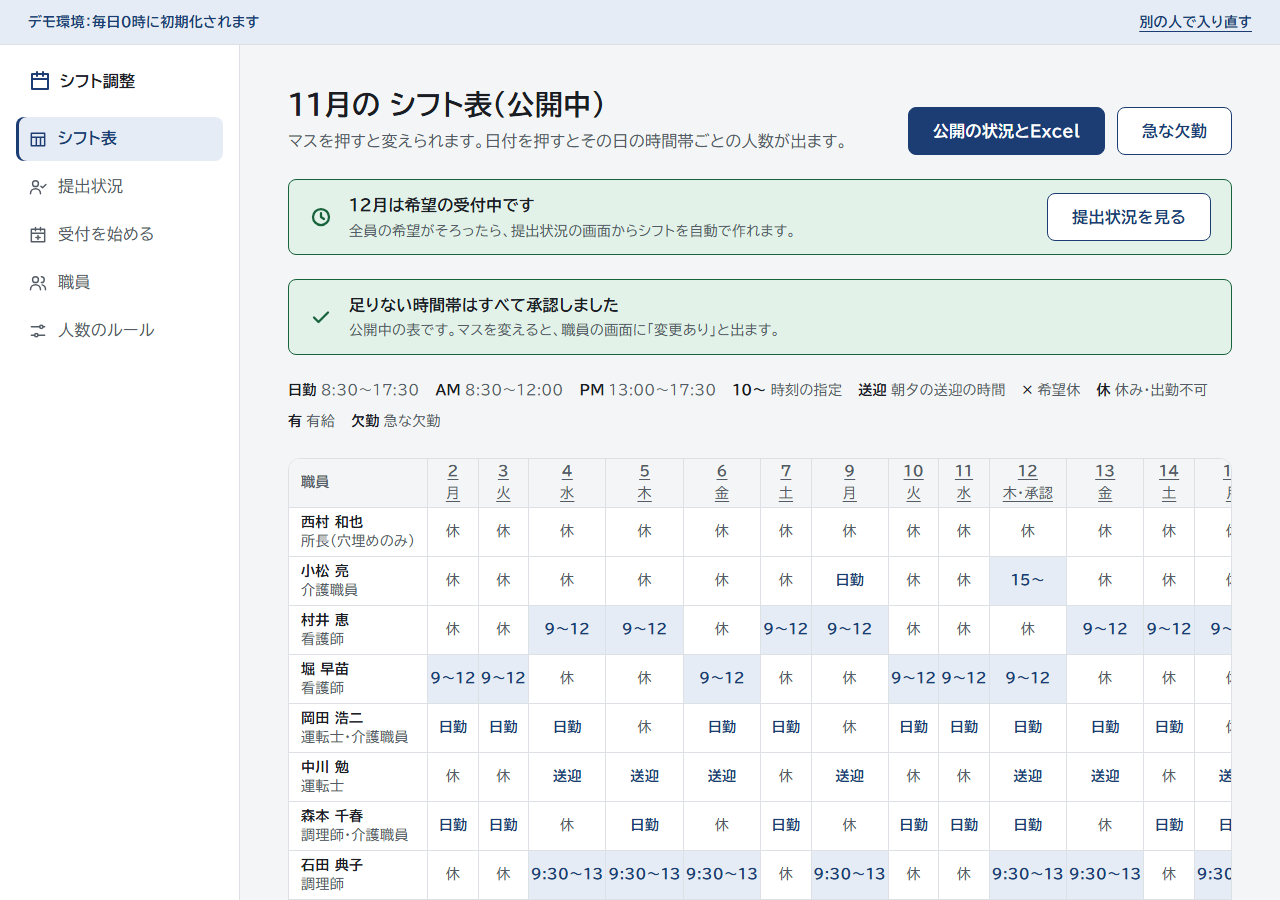
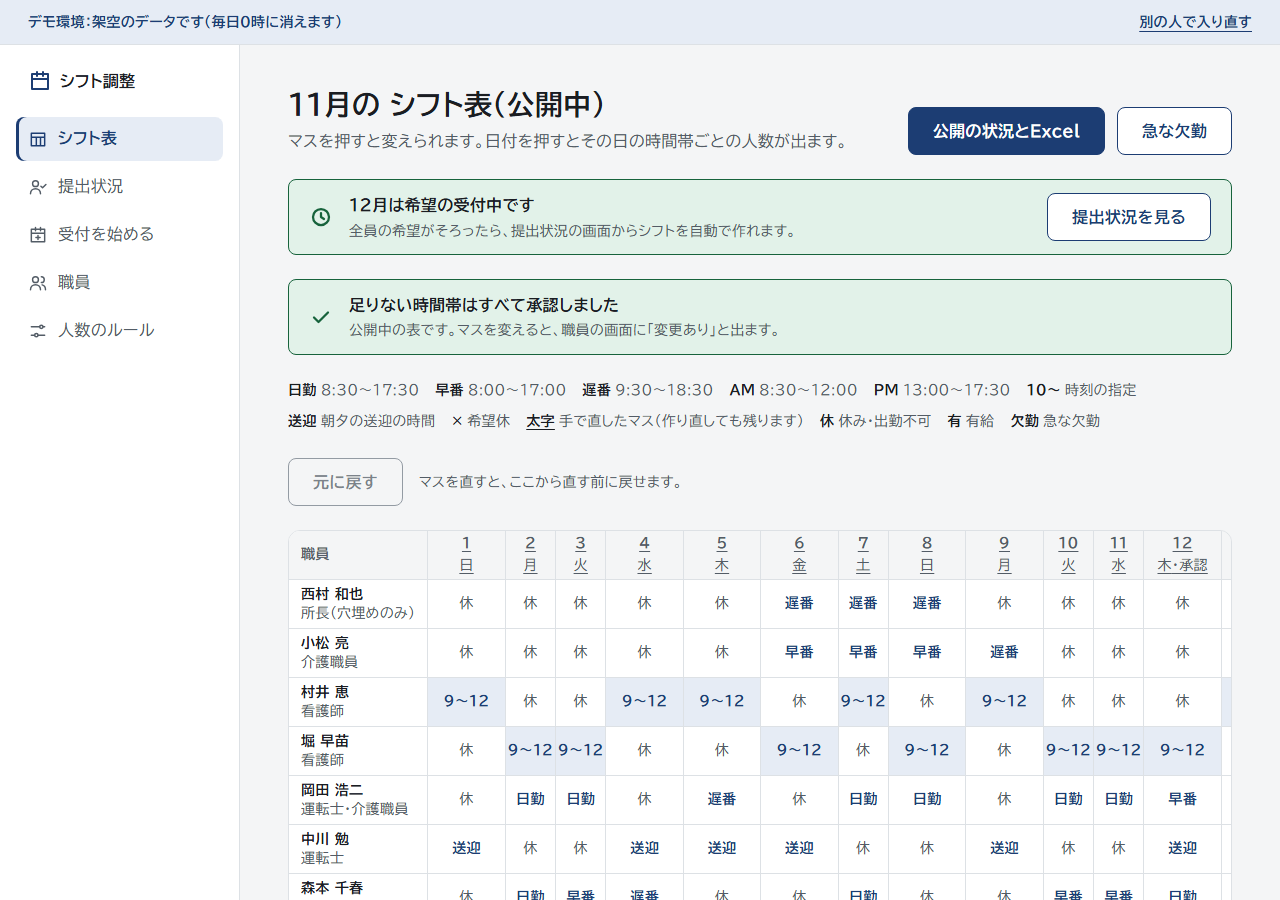
fix: シフト調整ツールの掲載文と画面を今のデモ（13名・勤務の型・人手の見込み）に合わせる
- 職員13名、自動作成 0.62秒（13名・型あり・手元のPCで10回の中央値、2026-11-19）、単体テスト235件
- やったことに「早番・日勤・遅番の人数も同じ判定で見る」「入力と手直しの手間を減らす」を追加
- 画面6枚を 2026-11-19 に撮り直し（1日の人数は勤務の型の表まで、人を足すは遅番の例）

Claude-Session: https://claude.ai/code/session_013v4TSjuaUxBHHRbiiAotHT

diff --git a/data/works.py b/data/works.py
@@ -903,11 +903,11 @@ CASES = [
         "title": "シフト調整ツール（公開デモ）",
         "lead": "スマホで出した希望から、足りない時間帯まで、1つの判定で組み立てる",
         "summary": (
-            "介護施設（日中のデイサービス型・職員11名）のシフトを、職員がスマホで希望を出し、所長がボタン1つで作るWebアプリ。"
-            "足りない時間帯は「何日の何時から何時に、どの役割が何名」の細かさで出し、1件ずつ承認するか人を足すかを決める。"
+            "介護施設（日中のデイサービス型・職員13名）のシフトを、職員がスマホで希望を出し、所長がボタン1つで作るWebアプリ。"
+            "足りない所は「何日の何時から何時に、どの役割（または早番・遅番などの勤務の型）が何名」の細かさで出し、1件ずつ承認するか人を足すかを決める。"
             "架空の施設「ひだまりデイサービス」で、誰でも触れる公開デモとして作った。"
         ),
-        "client": "自社制作（架空の介護施設・職員11名を題材）",
+        "client": "自社制作（架空の介護施設・職員13名を題材）",
         "period": "2026年11月",
         "role": "企画・設計・実装・テストまで単独",
         "status": "公開中（架空データのデモ・毎日0時に初期化）",
@@ -919,16 +919,16 @@ CASES = [
         "tags": ["Next.js", "TypeScript", "PostgreSQL", "自動作成と判定の純粋関数"],
         "stats": [
             {
-                "value": "0.13",
+                "value": "0.62",
                 "unit": "秒",
-                "label": "11名×1か月の自動作成",
-                "note": "手元のPC（Vitest）で10回測った中央値。2026-11-14。公開URL上で測った値ではありません",
+                "label": "13名×1か月の自動作成",
+                "note": "勤務の型（早番・日勤・遅番）ありの条件で、手元のPC（Vitest）で10回測った中央値。2026-11-19。公開URL上で測った値ではありません",
             },
             {
-                "value": "176",
+                "value": "235",
                 "unit": "件",
                 "label": "単体テスト",
-                "note": "Vitest。ほかに Playwright で、自動作成から公開・Excel・急な欠勤・職員のスマホ表示までを通しで確かめている。2026-11 時点",
+                "note": "Vitest。ほかに Playwright で、自動作成から公開・Excel・急な欠勤・職員のスマホ表示、元に戻す・作り直しまでを通しで確かめている。2026-11-19 時点",
             },
             {
                 "value": "22",
@@ -950,7 +950,14 @@ CASES = [
                 "body": "1日を30分の枠に分け、枠ごとに、働いている人を役割の席に割り当てます。"
                         "運転士は送迎の時間、調理師は昼食の準備の時間というように、役割ごとに必要な時間帯を持たせました。"
                         "兼務する人は1人として数え、その枠で足りない役割へ回します（2部マッチング）。"
-                        "結果は「13:00〜15:00 介護職員が1名不足」のように、時間帯と役割と人数で出ます。",
+                        "結果は「16:00〜17:30 運転士が1名不足」のように、時間帯と役割と人数で出ます。",
+            },
+            {
+                "heading": "早番・日勤・遅番の人数も、同じ判定で見る",
+                "body": "施設ごとに勤務の型（早番 8:00〜17:00 など）と1日の必要人数を決められ、型と同じ時間で働く人をその型の1人と数えます。"
+                        "役割の時間帯の判定はそのまま残し、両方が満たされているかを見ます。"
+                        "自動作成は役割を埋めたあとの最後の段で型をそろえ、型の不足は役割の不足より軽く扱います。"
+                        "型をそろえるために、介護や送迎の時間を空けないためです。",
             },
             {
                 "heading": "判定は1か所にまとめ、作った月は写しを残す",
@@ -961,14 +968,20 @@ CASES = [
             },
             {
                 "heading": "自動作成は、代わりの利かない役割から埋める",
-                "body": "希望休・出られない日・有給は動かさず、週の上限日数と、所長・社員の週休2日を守って割り振ります。"
+                "body": "希望休・出られない日・有給は動かさず、週の上限日数、所長・社員の週休2日、続けて出勤してよい日数、パートの働ける曜日を守って割り振ります。"
                         "看護・運転・調理のように、できる人が少ない役割を先に全日で埋めてから、介護と1日の人数を埋めます。"
                         "乱数を使わないので、同じ希望からは必ず同じシフトができます。",
             },
             {
+                "heading": "入力と手直しの手間を減らす",
+                "body": "職員の希望は、日を押すたびに 〇 → ×（希望休）→ 休 → 有 と切り替わります。"
+                        "所長が表で直したマスは太字で残り、シフトを作り直しても消えません。直した操作は30回まで元に戻せます。"
+                        "作る前には、必要な延べ人数と出勤できる延べ日数を比べた「人手の見込み」を出し、足りなさそうなら先に手を打てるようにしました。",
+            },
+            {
                 "heading": "足りない時間帯は、人が1件ずつ決める",
                 "body": "自動作成で埋まらなかった時間帯は、所長が1件ずつ「このままで承認する」か「人を足す」かを選びます。"
-                        "人を足すときは、その役割ができる人を「この日は希望休です。頼めば入れるかもしれません」のような理由つきで並べ、"
+                        "人を足すときは、入れる人を「この日は希望休です。頼めば入れるかもしれません」のような理由つきで並べ、"
                         "お願いの文の下書きを出します。送信はせず、メールやLINEに貼って送ってもらう形にしました。",
             },
             {
@@ -980,24 +993,24 @@ CASES = [
         "results": [
             {
                 "metric": "自動作成の速さ",
-                "value": "11名×1か月を 0.13秒",
-                "note": "手元のPC（Vitest）で10回測った中央値。2026-11-14。公開URL上の値ではなく、速度の保証でもありません",
+                "value": "13名×1か月を 0.62秒",
+                "note": "勤務の型ありの条件で、手元のPC（Vitest）で10回測った中央値。2026-11-19。公開URL上の値ではなく、速度の保証でもありません",
             },
             {
                 "metric": "単体テスト",
-                "value": "176件",
-                "note": "判定・自動作成・候補者・保存の決まり・権限・有給の残りの計算など。Vitest。2026-11 時点",
+                "value": "235件",
+                "note": "判定・勤務の型・自動作成・候補者・人手の見込み・保存の決まり・権限・有給の残りの計算など。Vitest。2026-11-19 時点",
             },
             {
                 "metric": "画面の幅の検査",
                 "value": "4つの幅で 0件",
-                "note": "320・390・820・1280px で全画面を自動で測り、横のはみ出し・14px未満の文字・44px未満の押せる部品が0件。2026-11-14",
+                "note": "320・390・820・1280px で、横のはみ出し・14px未満の文字・44px未満の押せる部品が0件。2026-11-14 に全画面、2026-11-19 に変えた6画面を測り直した",
             },
         ],
         "stack": [
             {"label": "アプリ", "items": "Next.js 16（App Router）/ TypeScript"},
             {"label": "データベース", "items": "PostgreSQL（Neon）/ Drizzle ORM。開発とテストは PGlite"},
-            {"label": "認証", "items": "next-auth（全員がIDとパスワード。デモはボタンで入力）"},
+            {"label": "認証", "items": "next-auth（全員がIDとパスワード。デモは見る人ごとの架空データにボタンで入る）"},
             {"label": "出力", "items": "ExcelJS（シフト表と、日ごとの時間帯別の人数の2シート）"},
             {"label": "テスト", "items": "Vitest / Playwright"},
             {"label": "インフラ", "items": "Vercel（Cron で毎日0時にデモデータを初期化）"},
@@ -1015,42 +1028,42 @@ CASES = [
         "screens": [
             {
                 "file": "shift-grid.png",
-                "alt": "管理者のシフト表。職員ごとに日勤・AM・9〜12・送迎・休・×などのマスが並び、上に来月の希望が受付中であることと、足りない時間帯をすべて承認したことが表示されている",
-                "caption": "シフト表 — マスを押すと予定を変えられる。日付を押すと、その日の時間帯ごとの人数が出る",
+                "alt": "管理者のシフト表。職員ごとに日勤・早番・遅番・9〜12・送迎・休などのマスが並び、上に来月の希望が受付中であることと、足りない時間帯をすべて承認したこと、記号の説明と「元に戻す」のボタンが表示されている",
+                "caption": "シフト表 — マスを押すと予定を変えられる。直したマスは太字で残り、元に戻せる",
                 "label": "公開デモの画面",
             },
             {
                 "file": "shift-day.png",
-                "alt": "11月12日の人数の画面。時間帯ごとに介護・運転・調理・看護の、いる人数と必要な人数が並び、13時から15時の行だけが介護1名不足になっている。右にはその日に出勤する人と時間が並ぶ",
-                "caption": "1日の人数 — 13:00〜15:00 だけ介護が1名足りないことが、時間帯と役割で分かる",
+                "alt": "11月12日の人数の画面。時間帯ごとに介護・運転・調理・看護の、いる人数と必要な人数がすべて充足と並び、その下の勤務の型の表で早番と日勤は充足、遅番だけが0／1で1名不足になっている。右にはその日に出勤する人と勤務が並ぶ",
+                "caption": "1日の人数 — 役割の時間帯はそろっていても、遅番が1名足りないことが型の表で分かる",
                 "label": "公開デモの画面",
             },
             {
                 "file": "shift-add.png",
-                "alt": "人を足す画面。介護の役割を持つ人が、15時からなら出勤している、13時までなら出勤している、希望休、などの理由つきで並び、介護の役割を持たない人は入れないと表示されている",
+                "alt": "11月12日の遅番に人を足す画面。日勤や早番で出勤している介護職員が「遅番に変えてもらえれば入れます」と並び、時間の指定や希望休の人は理由つきで、看護師だけの人は勤務の型には数えないため入れないと表示されている",
                 "caption": "人を足す — 頼める人を理由つきで並べ、選んだ人へのお願い文の下書きを作る",
                 "label": "公開デモの画面",
             },
             {
                 "file": "shift-status.png",
-                "alt": "提出状況の画面。11名中11名が提出済みで、職員ごとに提出済みの札と提出日が並び、下にシフトを自動で作るボタンがある",
-                "caption": "提出状況 — 全員がそろうと「シフトを自動で作る」が押せる。未提出の人がいれば督促の文を作れる",
+                "alt": "提出状況の画面。13名中13名が提出済みで、その下に人手の見込みとして必要な延べ人数155人日、出勤できる延べ日数233人日、過不足プラス78人日で余裕ありと出ている",
+                "caption": "提出状況 — 全員がそろうと「シフトを自動で作る」が押せる。作る前に人手の見込みも分かる",
                 "label": "公開デモの画面",
             },
             {
                 "file": "shift-rules.png",
-                "alt": "人数のルールの画面。1日の最低人数、営業時間、定休日、午前と午後の時間、所長を人数に数えるかの選択と、役割ごとの時間帯と必要人数が並ぶ",
-                "caption": "人数のルール — 役割ごとに、必要な時間帯と人数を施設で決められる",
+                "alt": "人数のルールの画面。1日の最低人数、営業時間、続けて出勤してよい日数、曜日ごとの定休日、所長を人数に数えるかの選択、勤務の型（早番・日勤・遅番）の時間と必要人数の表が並ぶ",
+                "caption": "人数のルール — 早番・日勤・遅番の時間と人数、定休日、続けて出勤してよい日数を施設で決められる",
                 "label": "公開デモの画面",
             },
             {
                 "file": "shift-phone.png",
                 "alt": "スマホ表示の2画面。左は12月の希望を入れるカレンダーで、日ごとに〇・×・休・10〜・AMなどが入っている。右は11月の確定したシフトで、日ごとの出勤時間が並ぶ",
-                "caption": "スマホ — 希望を入れる（左）と確定したシフト（右）。日を押して〇・×・休・有・時間を選ぶ",
+                "caption": "スマホ — 希望を入れる（左）と確定したシフト（右）。日を押すたびに 〇→×→休→有 と変わる",
                 "label": "公開デモの画面",
             },
         ],
-        "screens_note": "画面は、公開デモと同じプログラムと同じ架空データを手元で初期化した状態から、2026年11月14日に撮影したものです。"
+        "screens_note": "画面は、公開デモと同じプログラムと同じ架空データを手元で初期化した状態から、2026年11月19日に撮影したものです。"
                         "施設名・職員名・希望はすべて架空で、実在の施設や個人とは関係ありません。"
                         "スマホの画面は、2つの画面を並べて1枚にしています。",
         "diagram": "shift-tool.svg",
